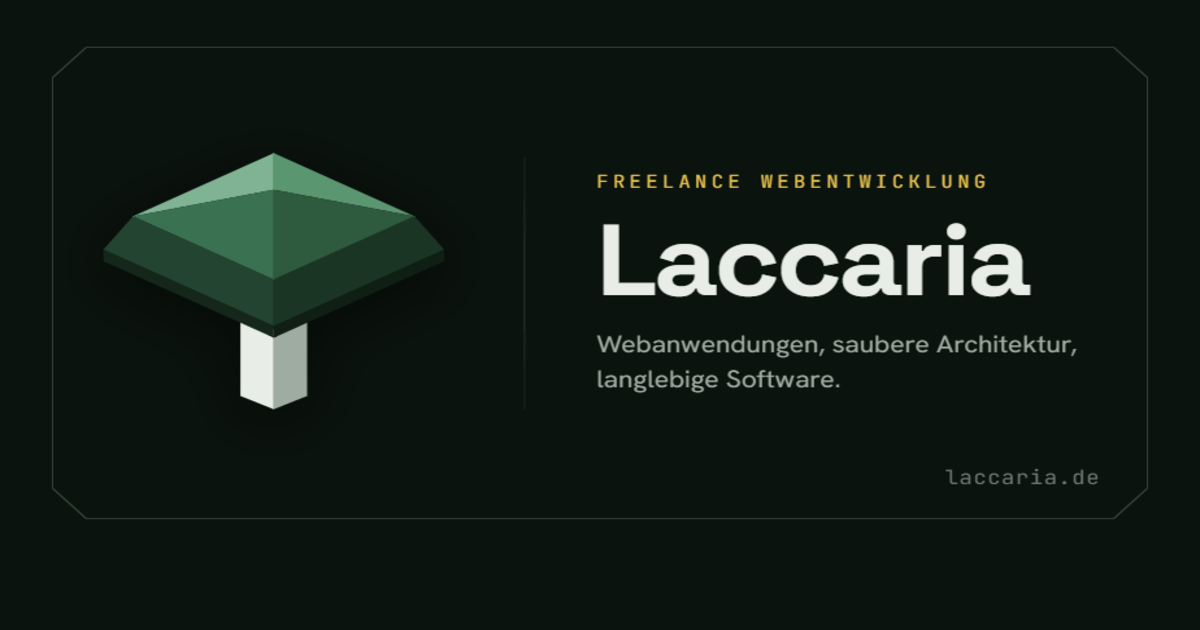
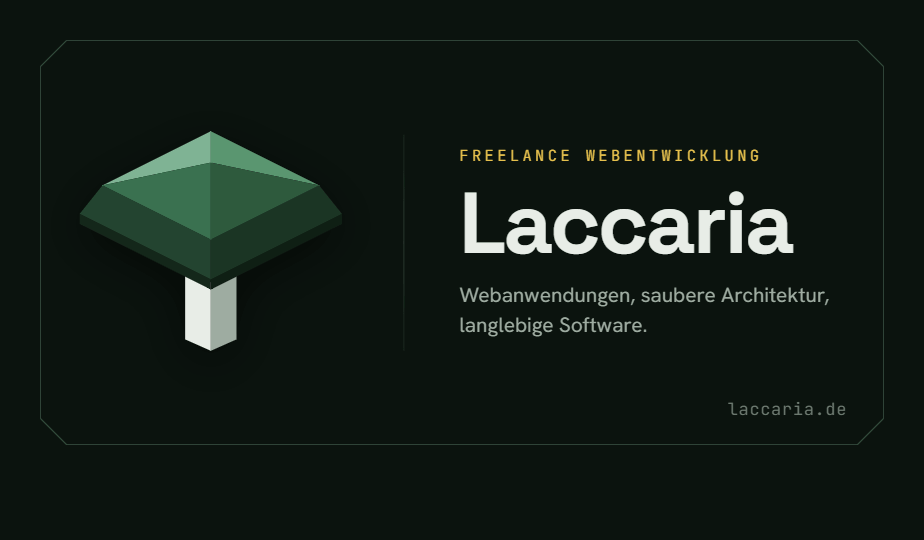
Update stack items to include Next.js in group2

diff --git a/components/sections/Stack.tsx b/components/sections/Stack.tsx
@@ -6,11 +6,11 @@ import Section from "@/components/ui/Section";
 const GROUPS = [
   {
     label: "group1",
-    items: ["TypeScript", "React", "Next.js", "Vue.js", "Tailwind CSS", "JavaScript", "SCSS"],
+    items: ["TypeScript", "React", "Vue.js", "Tailwind CSS", "JavaScript", "SCSS"],
   },
   {
     label: "group2",
-    items: ["PHP", "Laravel", "Livewire", "Filament", "WordPress", "MySQL & PostgreSQL"],
+    items: ["PHP", "Laravel", "Livewire", "Filament", "Next.js", "WordPress", "MySQL & PostgreSQL"],
   },
   {
     label: "group3",